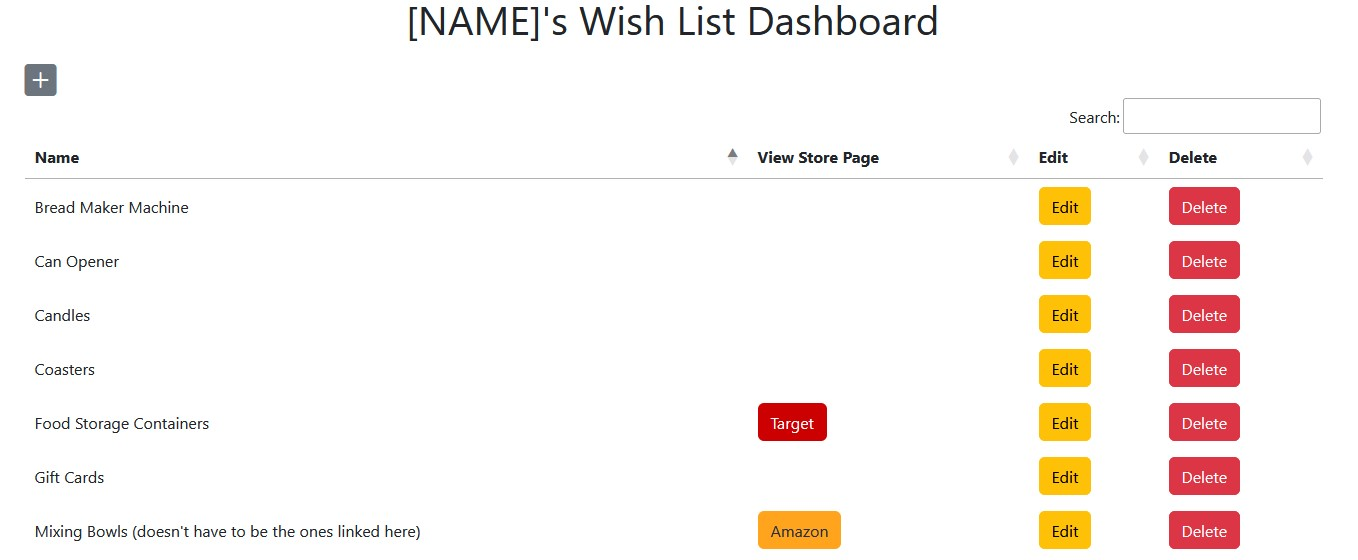
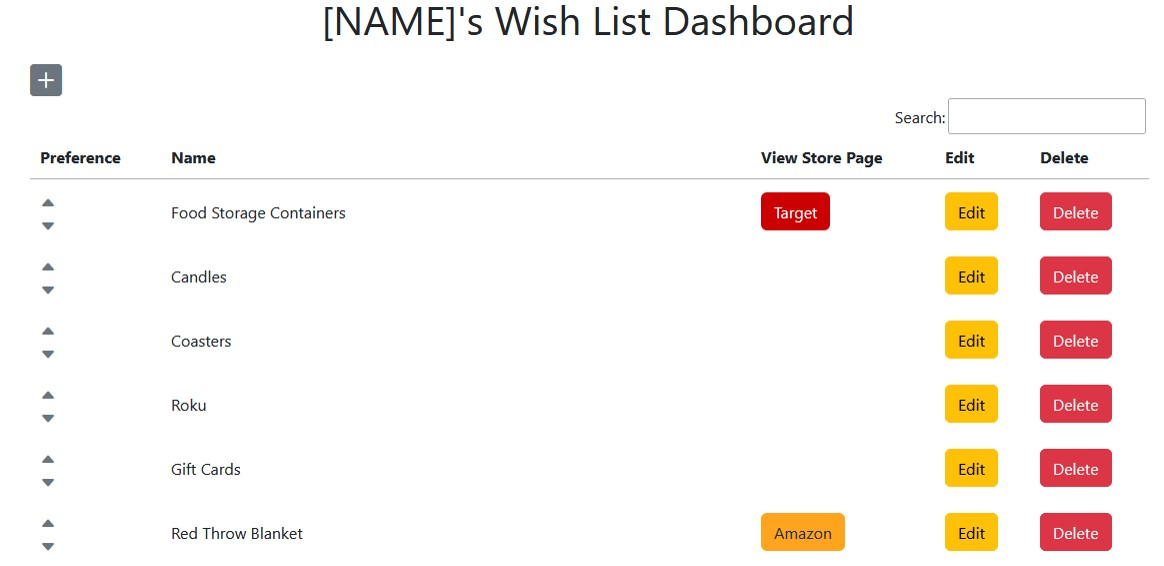
readme update for version 2.1.4

diff --git a/README.md b/README.md
@@ -20,12 +20,17 @@ To host this app in its vanilla state, only an apache server with php and a mysq
 
 ## Features
 ### 1.0: Dashboard
-The dashboard page displays a list of all items currently on your wish list, with buttons for adding items, viewing the online store page of an item if one is provided, editing an item, and deleting an item.
+The dashboard page displays a list of all items currently on your wish list, with buttons for:
+-adding items
+-viewing the online store page of an item if one is provided
+-editing an item
+-deleting an item
+-changing an items preference order
 
 ![](assets/1.0.jpg)
 
 #### 1.1: Add Item
-`+` button on the top left of the dashboard page allows you to add an item (with or without a link to an online store page) to your wish list. Also includes an 'Add Seller`, to use if the seller you need is not in the seller dropdown.
+`+` button on the top left of the dashboard page allows you to add an item (with or without a link to an online store page) to your wish list (newly added items default to last in the preference order). Also includes an 'Add Seller`, to use if the seller you need is not in the seller dropdown.
 
 ![](assets/1.1.gif)
 
@@ -44,8 +49,13 @@ The dashboard page displays a list of all items currently on your wish list, wit
 
 ![](assets/1.3.gif)
 
+#### 1.4: Preference
+Up and down arrows to the left of each item allow for ordering of the list from most wanted item at the top, to least wanted item at the bottom.
+
+![](assets/1.4.gif)
+
 ### 2.0: Index Page
-The index page contains the list of items on your wish list, a button to view the online store page of an item if one is provided, and a button to mark an item as claimed. This will be the page you provide to people who you wish to view your wish list. **YOU SHOULD NOT VIEW THIS PAGE if you don't want to know what people are getting for you, as it will show strikethroughs on items that people have claimed.**
+The index page contains the list of items on your wish list, a button to view the online store page of an item if one is provided, and a button to mark an item as claimed. Also indicates the list is displayed with the most wanted item at the top, and least wanted at the bottom. This will be the page you provide to people who you wish to view your wish list. **YOU SHOULD NOT VIEW THIS PAGE if you don't want to know what people are getting for you, as it will show strikethroughs on items that people have claimed.**
 
 ![](assets/2.0.jpg)
 
@@ -57,11 +67,14 @@ If a user wants to mark an item as claimed, so other people will know not to get
 ### 3.1: View Store Page Button
 Index and Dashboard have a View Store Page button if a link and seller are provided marked with the name of the seller that opens the link in a new tab.
 
-### 3.2: Searchable Sortable Lists
-Index and Dashboard both have the ability to sort or filter items by name or seller.
+### ~~3.2: Searchable Sortable Lists~~ (Partially removed in v2.1.4 | See feature 3.4)
+~~Index and Dashboard both have the ability to sort or filter items by name or seller.~~
 
 ### 3.3: Mobile Friendly
 All pages are made to behave on all screen sizes.
+
+### 3.4: Searchable Lists
+Index and Dashboard both have the ability to filter items by name or seller.
 
 
 ## Contributions
